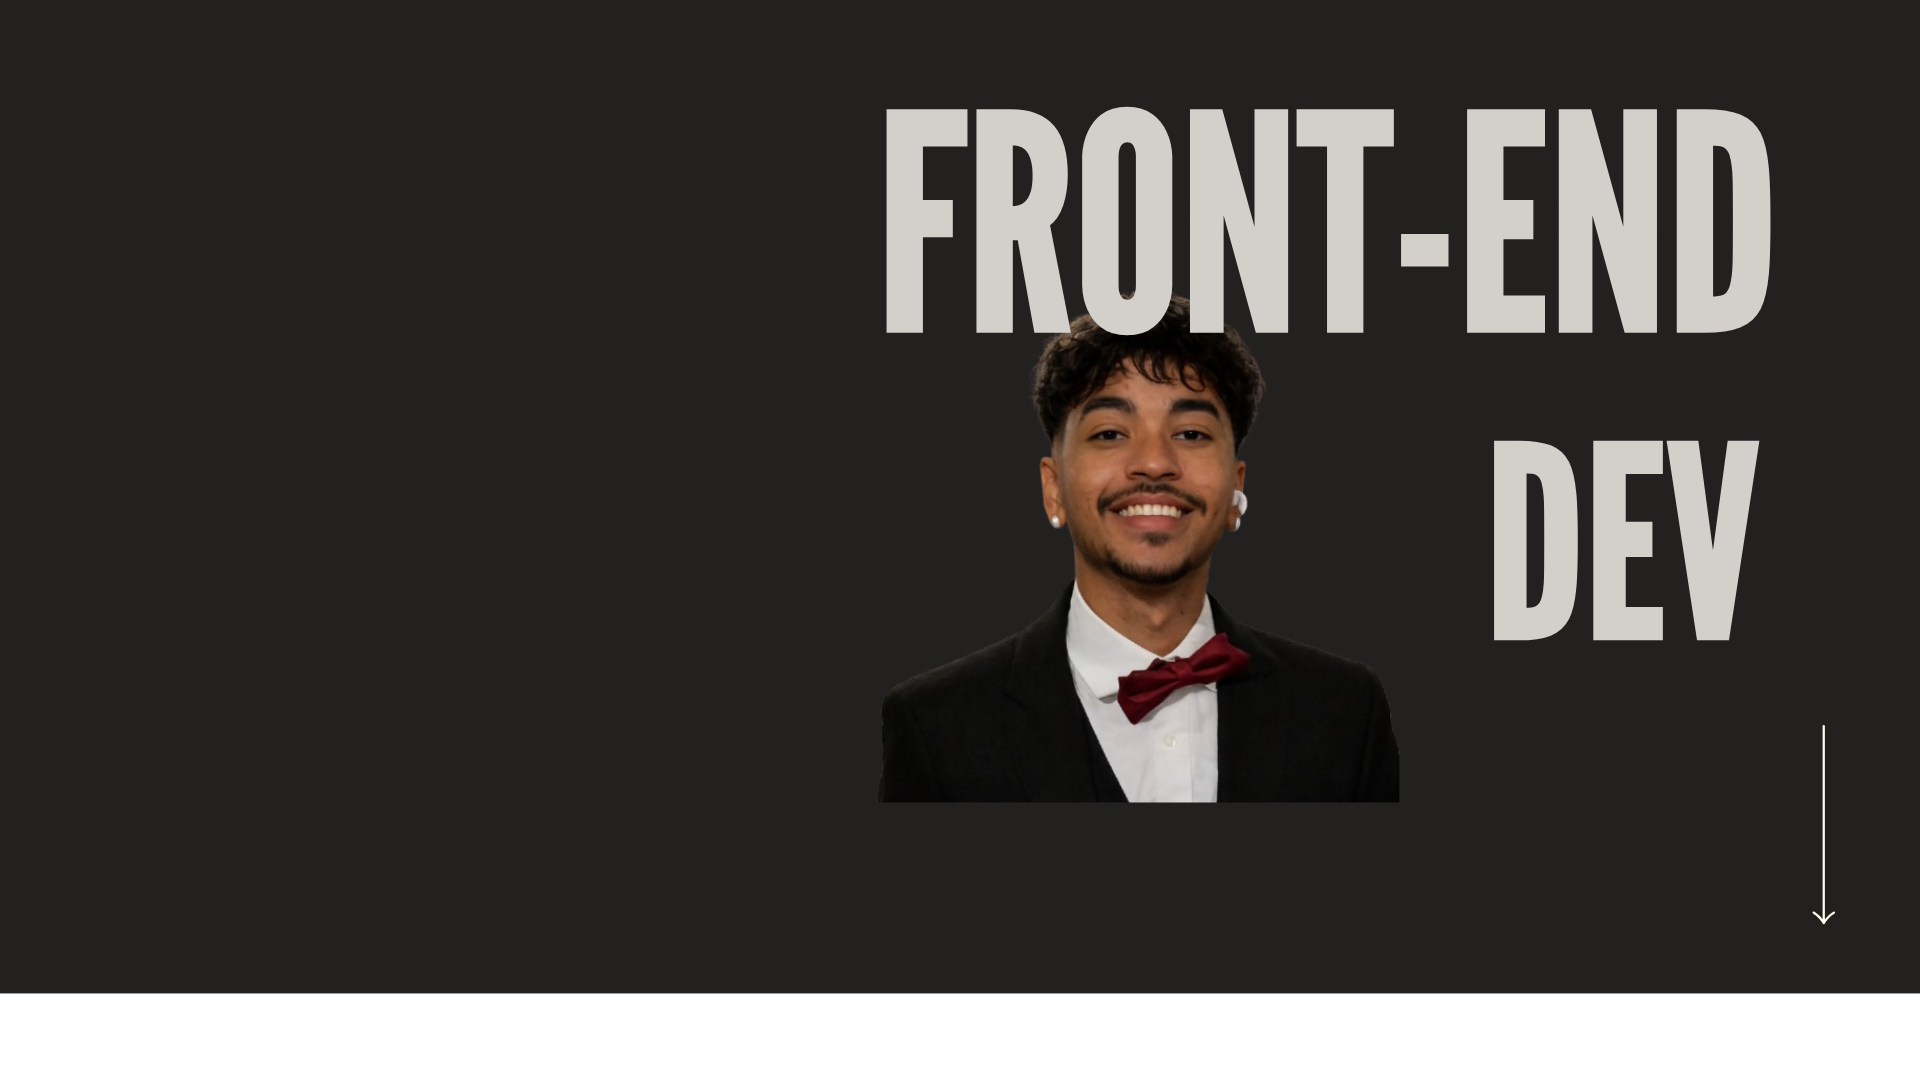
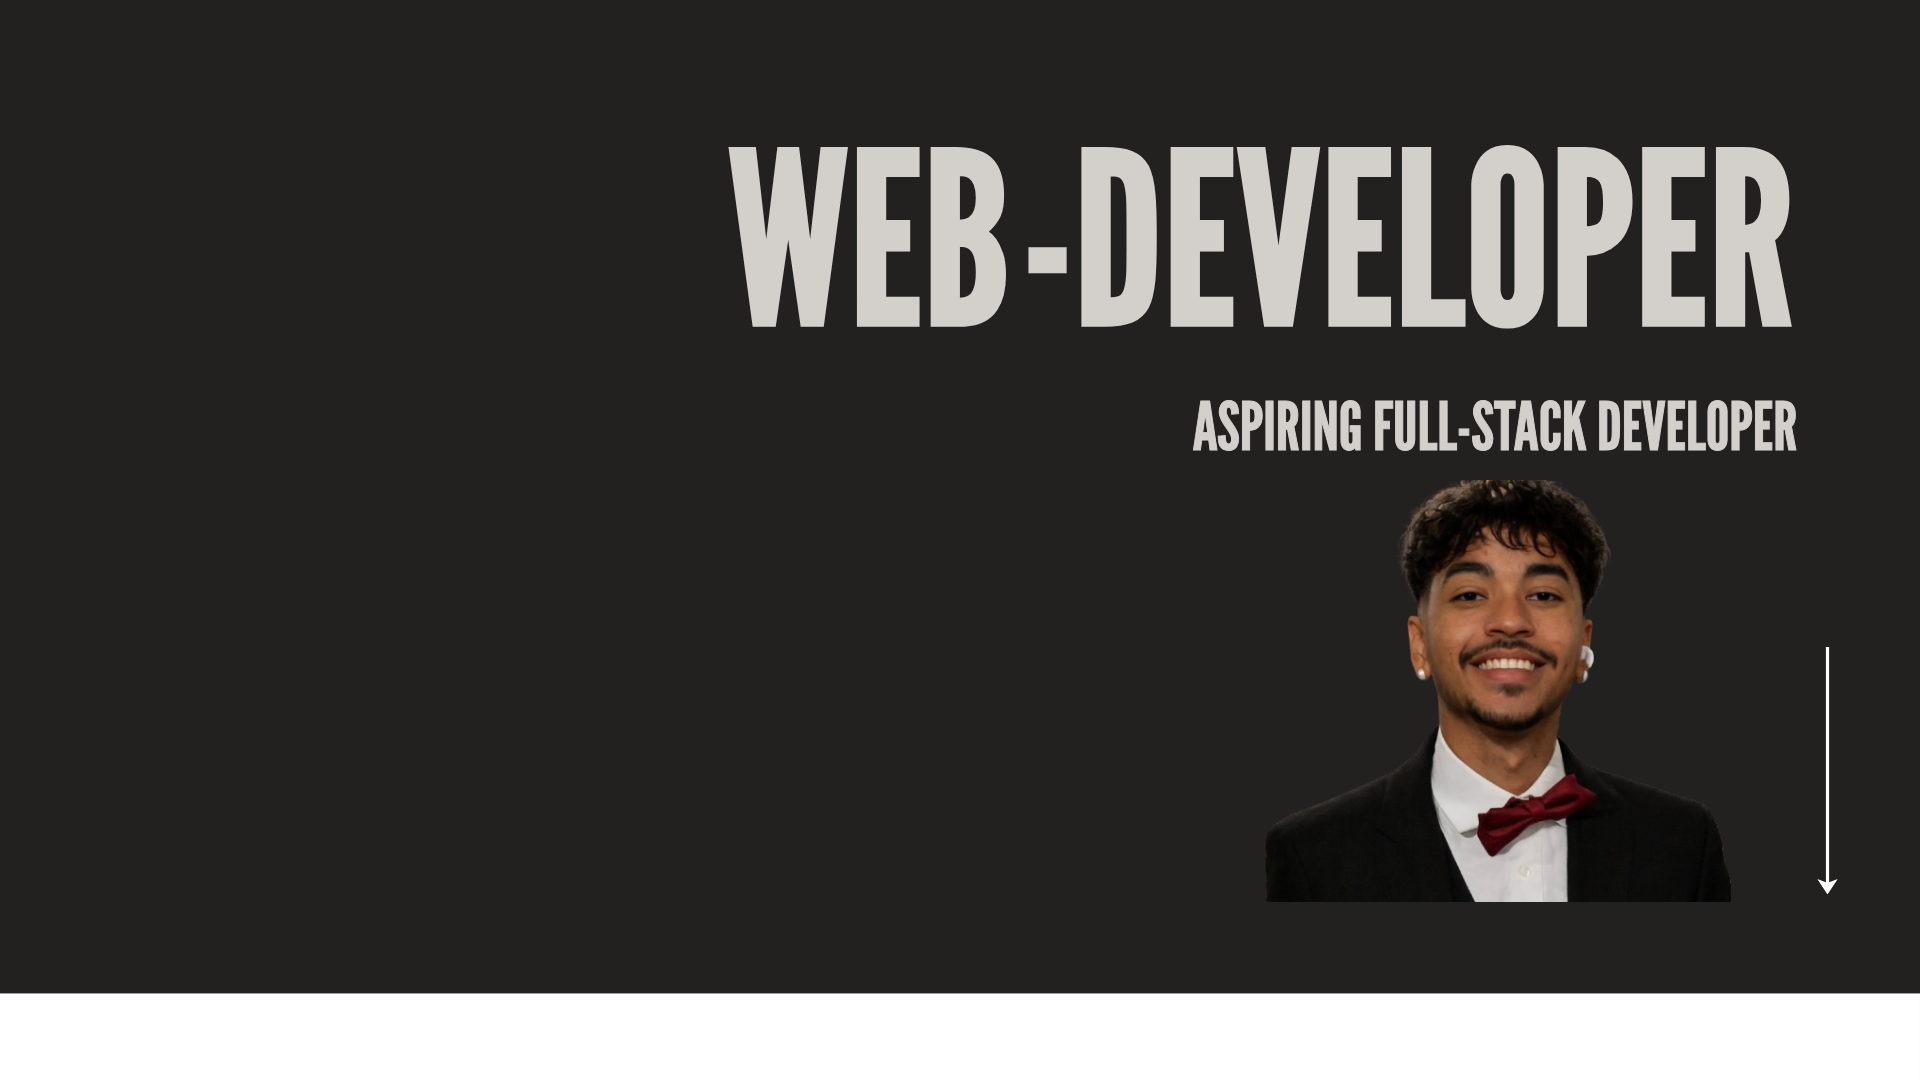
sua mensagem aqui

Changed region(s): [[0.375, 0.0917, 0.9375, 0.8556], [0.4375, 0.6417, 0.5312, 0.7639], [0.9375, 0.6722, 0.9688, 0.825]]

diff --git a/portfolio-pc.html b/portfolio-pc.html
@@ -4,13 +4,29 @@
     <meta charset="utf-8" />
     <meta name="viewport" content="width=device-width, initial-scale=1.0" />
     <title>Matheus Tiburcio - Front-End Developer (PC)</title>
-    <link rel="stylesheet" href="style.css" />
+    <link rel="stylesheet" href="styles.css" />
     <link rel="stylesheet" href="https://cdnjs.cloudflare.com/ajax/libs/font-awesome/6.5.1/css/all.min.css" />
+    <link rel="preconnect" href="https://fonts.googleapis.com" />
+    <link rel="preconnect" href="https://fonts.gstatic.com" crossorigin />
+    <link rel="stylesheet" href="https://fonts.googleapis.com/css2?family=Merriweather:wght@400;700;900&family=Press+Start+2P&family=Inria+Serif:ital,wght@0,400;0,700;1,400;1,700&display=swap" />
+    <style>
+      /* Sobrescreve overflow do body para o layout PC permitir scroll */
+      @media (min-width: 900px) {
+        html, body {
+          overflow: visible !important;
+          height: auto !important;
+        }
+        body {
+          display: block;
+          overflow-y: auto !important;
+        }
+      }
+    </style>
   </head>
-  <body>
-    <nav class="navbar">
-      <span class="navbar-logo">Matheus Tiburcio Araujo</span>
-      <ul class="navbar-links">
+  <body class="pc-layout">
+    <nav class="pc-navbar">
+      <span class="pc-navbar-logo">Matheus Tiburcio Araujo</span>
+      <ul class="pc-navbar-links">
         <li><a href="#hero">Inicio</a></li>
         <li><a href="#habilidades">Habilidades</a></li>
         <li><a href="#projetos">Projetos</a></li>
@@ -19,24 +35,24 @@
       </ul>
     </nav>
 
-    <section class="page-section hero" id="hero">
-      <div class="meu-nome animate-hero"><div class="text-wrapper">MATHEUS TIBURCIO</div></div>
-      <div class="sobre-mim animate-hero"><div class="text-wrapper">Sobre mim:</div></div>
-      <div class="meu-nome2 animate-hero">
+    <section class="pc-section pc-hero" id="hero">
+      <div class="pc-meu-nome animate-hero"><div class="text-wrapper">MATHEUS TIBURCIO</div></div>
+      <div class="pc-sobre-mim animate-hero"><div class="text-wrapper">Sobre mim:</div></div>
+      <div class="pc-meu-nome2 animate-hero">
         <p>Sou estudante de Analise e Desenvolvimento de Sistemas, com foco em desenvolvimento front-end responsivo. Gosto de transformar ideias em interfaces funcionais, acessiveis e com boa experiencia para o usuario, sempre buscando codigo limpo e evolucao continua.</p>
       </div>
-      <div class="hero-actions animate-hero">
-        <a class="btn-primary" href="#projetos">Ver projetos</a>
-        <a class="btn-secondary" href="#contato">Fale comigo</a>
+      <div class="pc-hero-actions animate-hero">
+        <a class="pc-btn-primary" href="#projetos">Ver projetos</a>
+        <a class="pc-btn-secondary" href="#contato">Fale comigo</a>
       </div>
     </section>
 
-    <section class="page-section skills-section" id="habilidades">
-      <div class="habilidades1 animate-scroll"><div class="text-wrapper">HABILIDADES:</div></div>
-      <div class="page-layout">
-        <div class="page-left">
-          <div class="page-box1 animate-scroll">
-            <ul class="page-list">
+    <section class="pc-section pc-skills-section" id="habilidades">
+      <div class="pc-habilidades1 animate-scroll"><div class="text-wrapper">HABILIDADES:</div></div>
+      <div class="pc-page-layout">
+        <div class="pc-page-left">
+          <div class="pc-page-box1 animate-scroll">
+            <ul class="pc-page-list">
               <li>Trabalho em equipe</li>
               <li>Organizacao</li>
               <li>Capacidade de trabalhar sob pressao</li>
@@ -46,23 +62,23 @@
             </ul>
           </div>
         </div>
-        <div class="page-center">
-          <div class="skill-card animate-scroll">
-            <div class="skill-row">
-              <img src="imagens/html5k.webp" alt="HTML5" class="tech-icon" />
-              <img src="imagens/css4k.webp" alt="CSS3" class="tech-icon" />
-              <img src="imagens/java4k.webp" alt="JavaScript" class="tech-icon" />
+        <div class="pc-page-center">
+          <div class="pc-skill-card animate-scroll">
+            <div class="pc-skill-row">
+              <img src="imagens/html5k.webp" alt="HTML5" class="pc-tech-icon" />
+              <img src="imagens/css4k.webp" alt="CSS3" class="pc-tech-icon" />
+              <img src="imagens/java4k.webp" alt="JavaScript" class="pc-tech-icon" />
             </div>
-            <div class="skill-row">
-              <img src="imagens/java.png" alt="Java" class="tech-icon" />
-              <img src="imagens/figma.png" alt="Figma" class="tech-icon" />
-              <img src="imagens/react.svg" alt="React" class="tech-icon" />
+            <div class="pc-skill-row">
+              <img src="imagens/java.png" alt="Java" class="pc-tech-icon" />
+              <img src="imagens/figma.png" alt="Figma" class="pc-tech-icon" />
+              <img src="imagens/react.svg" alt="React" class="pc-tech-icon" />
             </div>
           </div>
         </div>
-        <div class="page-right">
-          <div class="page-box2 animate-scroll">
-            <ul class="page-list">
+        <div class="pc-page-right">
+          <div class="pc-page-box2 animate-scroll">
+            <ul class="pc-page-list">
               <li>HTML</li>
               <li>CSS</li>
               <li>JavaScript</li>
@@ -80,158 +96,158 @@
       </div>
     </section>
 
-    <section class="page-section projects-section animate-scroll" id="projetos">
-      <div class="projects-title"><span>PROJETOS:</span></div>
-      <div class="projects-grid">
-        <article class="project-card">
+    <section class="pc-section pc-projects-section animate-scroll" id="projetos">
+      <div class="pc-projects-title"><span>PROJETOS:</span></div>
+      <div class="pc-projects-grid">
+        <article class="pc-project-card">
           <h3>Portfolio Profissional</h3>
           <p>Site pessoal com foco em identidade visual, navegacao simples, animacoes de entrada e layout responsivo para desktop e celular.</p>
-          <div class="project-tags">
+          <div class="pc-project-tags">
             <span>HTML</span>
             <span>CSS</span>
             <span>JavaScript</span>
           </div>
-          <div class="project-links">
+          <div class="pc-project-links">
             <a href="https://matheustiburcio-sp.github.io/Meu-Portfolio/" target="_blank" rel="noopener noreferrer">Ver online</a>
             <a href="https://github.com/matheustiburcio-sp/Meu-Portfolio" target="_blank" rel="noopener noreferrer">Codigo</a>
           </div>
         </article>
 
-        <article class="project-card">
+        <article class="pc-project-card">
           <h3>Landing Page Responsiva</h3>
           <p>Pagina institucional com hierarquia visual clara, componentes reutilizaveis e ajuste de layout para diferentes resolucoes.</p>
-          <div class="project-tags">
+          <div class="pc-project-tags">
             <span>HTML</span>
             <span>CSS</span>
             <span>UI/UX</span>
           </div>
-          <div class="project-links">
+          <div class="pc-project-links">
             <a href="https://github.com/matheustiburcio-sp" target="_blank" rel="noopener noreferrer">Ver repositorios</a>
           </div>
         </article>
 
-        <article class="project-card">
+        <article class="pc-project-card">
           <h3>Desafios de Logica e Front-end</h3>
           <p>Exercicios e pequenos projetos para praticar estrutura de paginas, manipulacao de elementos e boas praticas de desenvolvimento.</p>
-          <div class="project-tags">
+          <div class="pc-project-tags">
             <span>JavaScript</span>
             <span>Git</span>
             <span>GitHub</span>
           </div>
-          <div class="project-links">
+          <div class="pc-project-links">
             <a href="https://github.com/matheustiburcio-sp" target="_blank" rel="noopener noreferrer">Ver GitHub</a>
           </div>
         </article>
 
-        <article class="project-card">
+        <article class="pc-project-card">
           <h3>EduConnect2</h3>
           <p>Plataforma educacional desenvolvida para conectar alunos e professores, facilitando o acesso a conteudos e a comunicacao entre os usuarios.</p>
-          <div class="project-tags">
+          <div class="pc-project-tags">
             <span>React</span>
             <span>JavaScript</span>
             <span>GitHub</span>
           </div>
-          <div class="project-links">
+          <div class="pc-project-links">
             <a href="https://github.com/matheustiburcio-sp/educonnect2" target="_blank" rel="noopener noreferrer">Codigo</a>
           </div>
         </article>
 
-        <article class="project-card">
+        <article class="pc-project-card">
           <h3>Saber Aberto Web</h3>
           <p>Aplicacao web com foco em compartilhamento de conhecimento de forma aberta e acessivel, promovendo o aprendizado colaborativo.</p>
-          <div class="project-tags">
+          <div class="pc-project-tags">
             <span>HTML</span>
             <span>CSS</span>
             <span>JavaScript</span>
           </div>
-          <div class="project-links">
+          <div class="pc-project-links">
             <a href="https://github.com/matheustiburcio-sp/saber-aberto-web" target="_blank" rel="noopener noreferrer">Codigo</a>
           </div>
         </article>
       </div>
     </section>
 
-    <section class="page-section education-section animate-scroll" id="educacao">
+    <section class="pc-section pc-education-section animate-scroll" id="educacao">
       <div class="edu-section-header">
         <h2 class="edu-section-title">EDUCAÇÃO</h2>
         <p class="edu-section-subtitle">Minha formação acadêmica, que me proporcionou uma base sólida de conhecimento e habilidades para minha jornada profissional.</p>
       </div>
 
-      <div class="edu-cards-grid">
-        <article class="edu-card animate-scroll">
-          <div class="edu-card-body">
-            <div class="edu-card-image-wrap edu-card-image-wrap--logo">
-              <img src="imagens/colegio.objetivo.webp" alt="Colegio Objetivo" class="edu-card-img" />
+      <div class="pc-edu-cards-grid">
+        <article class="pc-edu-card animate-scroll">
+          <div class="pc-edu-card-body">
+            <div class="pc-edu-img-wrap">
+              <img src="imagens/colegio.objetivo.webp" alt="Colegio Objetivo" class="pc-edu-img pc-edu-img--logo" />
             </div>
-            <div class="edu-card-info">
-              <div class="edu-card-badge"><i class="fas fa-school"></i></div>
-              <h3 class="edu-card-name">COLÉGIO OBJETIVO</h3>
-              <p class="edu-card-type">Ensino Fundamental e Ensino Médio</p>
-              <div class="edu-card-rule"></div>
-              <p class="edu-card-desc">Formação completa no Ensino Fundamental e Médio, desenvolvendo uma base sólida de conhecimento e habilidades essenciais.</p>
+            <div class="pc-edu-card-info">
+              <div class="pc-edu-badge"><i class="fas fa-school"></i></div>
+              <h3 class="pc-edu-name">COLÉGIO OBJETIVO</h3>
+              <p class="pc-edu-type">Ensino Fundamental e Ensino Médio</p>
+              <div class="pc-edu-rule"></div>
+              <p class="pc-edu-desc">Formação completa no Ensino Fundamental e Médio, desenvolvendo uma base sólida de conhecimento e habilidades essenciais.</p>
             </div>
           </div>
-          <div class="edu-card-foot">
+          <div class="pc-edu-foot">
             <i class="far fa-calendar-alt"></i>
-            <span><strong class="edu-foot-label">Período:</strong> Conclusão do Ensino Médio</span>
+            <span><strong class="pc-edu-foot-label">Período:</strong> Conclusão do Ensino Médio</span>
           </div>
         </article>
 
-        <article class="edu-card animate-scroll">
-          <div class="edu-card-body">
-            <div class="edu-card-image-wrap">
-              <img src="imagens/sao.judas.webp" alt="Universidade Sao Judas Tadeu" class="edu-card-img" />
+        <article class="pc-edu-card animate-scroll">
+          <div class="pc-edu-card-body">
+            <div class="pc-edu-img-wrap">
+              <img src="imagens/sao.judas.webp" alt="Universidade Sao Judas Tadeu" class="pc-edu-img" />
             </div>
-            <div class="edu-card-info">
-              <div class="edu-card-badge"><i class="fas fa-university"></i></div>
-              <h3 class="edu-card-name">UNIVERSIDADE SÃO JUDAS TADEU</h3>
-              <p class="edu-card-type">Ensino Superior</p>
-              <div class="edu-card-rule"></div>
-              <p class="edu-card-desc">Cursando Análise e Desenvolvimento de Sistemas, com foco no desenvolvimento de competências técnicas e analíticas.</p>
+            <div class="pc-edu-card-info">
+              <div class="pc-edu-badge"><i class="fas fa-university"></i></div>
+              <h3 class="pc-edu-name">UNIVERSIDADE SÃO JUDAS TADEU</h3>
+              <p class="pc-edu-type">Ensino Superior</p>
+              <div class="pc-edu-rule"></div>
+              <p class="pc-edu-desc">Cursando Análise e Desenvolvimento de Sistemas, com foco no desenvolvimento de competências técnicas e analíticas.</p>
             </div>
           </div>
-          <div class="edu-card-foot">
+          <div class="pc-edu-foot">
             <i class="far fa-calendar-alt"></i>
-            <span><strong class="edu-foot-label">Conclusão:</strong> 2028 (ADS)</span>
+            <span><strong class="pc-edu-foot-label">Conclusão:</strong> 2028 (ADS)</span>
           </div>
         </article>
       </div>
 
-      <div class="edu-quote">
+      <div class="pc-edu-quote">
         <i class="fas fa-graduation-cap"></i>
         <span>A educação é a base para transformar conhecimento em oportunidades.</span>
       </div>
     </section>
 
-    <section class="page-section contact-section animate-scroll" id="contato">
-      <div class="contato1">CONTATO:</div>
-      <div class="page-layout">
-        <div class="page-left"></div>
-        <div class="page-center">
-          <div class="page-box contact-box">
-            <div class="contact-item">
-              <img src="imagens/telefone.webp" alt="Telefone" class="contact-icon" />
+    <section class="pc-section pc-contact-section animate-scroll" id="contato">
+      <div class="pc-contato1">CONTATO:</div>
+      <div class="pc-page-layout">
+        <div class="pc-page-left"></div>
+        <div class="pc-page-center">
+          <div class="pc-contact-box">
+            <div class="pc-contact-item">
+              <img src="imagens/telefone.webp" alt="Telefone" class="pc-contact-icon" />
               <p><strong>Telefone:</strong> <a href="tel:+5511964159465">(11)96415-9465</a></p>
             </div>
-            <div class="contact-item">
-              <img src="imagens/gmail.png" alt="Email" class="contact-icon" />
+            <div class="pc-contact-item">
+              <img src="imagens/gmail.png" alt="Email" class="pc-contact-icon" />
               <p><strong>Email:</strong> <a href="mailto:[email redacted]">[email redacted]</a></p>
             </div>
-            <div class="contact-item">
-              <img src="imagens/github.png" alt="GitHub" class="contact-icon" />
+            <div class="pc-contact-item">
+              <img src="imagens/github.png" alt="GitHub" class="pc-contact-icon" />
               <p><strong>GitHub:</strong>
                 <a href="https://github.com/matheustiburcio-sp" target="_blank" rel="noopener noreferrer">github.com/matheustiburcio-sp</a>
               </p>
             </div>
-            <div class="contact-item">
-              <img src="imagens/github.png" alt="Portfolio" class="contact-icon" />
+            <div class="pc-contact-item">
+              <img src="imagens/github.png" alt="Portfolio" class="pc-contact-icon" />
               <p><strong>Portfolio:</strong>
                 <a href="https://matheustiburcio-sp.github.io/Meu-Portfolio/" target="_blank" rel="noopener noreferrer">matheustiburcio-sp.github.io/Meu-Portfolio</a>
               </p>
             </div>
           </div>
         </div>
-        <div class="page-right"></div>
+        <div class="pc-page-right"></div>
       </div>
     </section>
     <script src="script.js"></script>